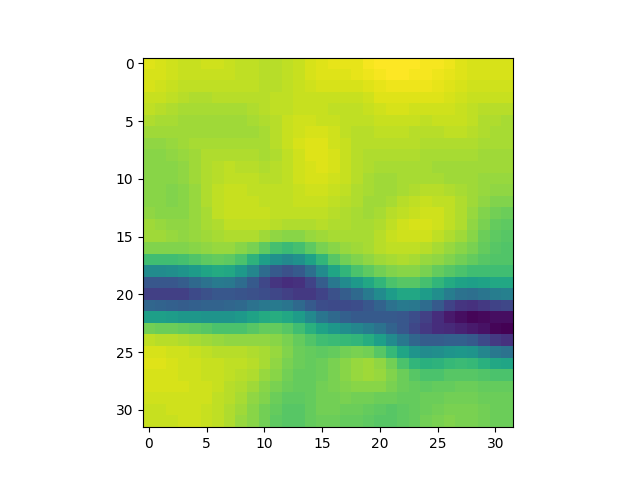
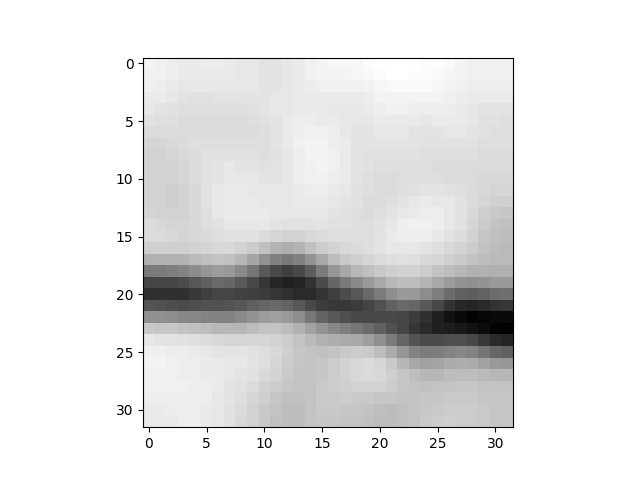
Changed cmap

diff --git a/data_visualization.py b/data_visualization.py
@@ -14,6 +14,9 @@ threshold_image = cv2.adaptiveThreshold(
     C=9
 )
 
-for image in [rgb_image, greyscale_image, resized_image, blur_image, threshold_image]:
-    plt.imshow(image)
+plt.imshow(rgb_image)
+plt.show()
+
+for image in [greyscale_image, resized_image, blur_image, threshold_image]:
+    plt.imshow(image, cmap='gray')
     plt.show()
